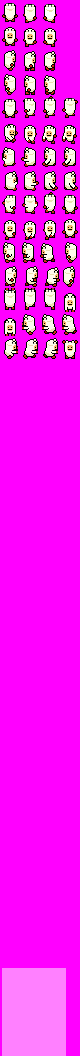
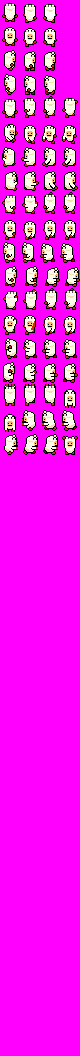
Añadida animación de Hit al Player, carga incluida. Arreglado un fallito con la profundidad de las tools. Añadida nueva espada a la BDD, con su gráfico y cfg, y mejoradas las otras. Nombres actualizados. Comprobado que la nueva espada se utiliza en el gen.
Pare poco pero me he tirado 2 horas haciéndolo, que el trabajo gráfico...

diff --git a/interprete/source/src/Player.cpp b/interprete/source/src/Player.cpp
@@ -627,6 +627,12 @@ bool Player::loadAnimations(std::string fname)
 	loadAnimation(Thrust, LEFT, "thl", f);
 	loadAnimation(Thrust, RIGHT, "thr", f);
 
+	// Hit
+	loadAnimation(Hit, UP, "hup", f);
+	loadAnimation(Hit, DOWN, "hdn", f);
+	loadAnimation(Hit, LEFT, "hlf", f);
+	loadAnimation(Hit, RIGHT, "hrg", f);
+
 	// Push
 	loadAnimation(Push, UP, "pshu", f);
 	loadAnimation(Push, DOWN, "pshd", f);
